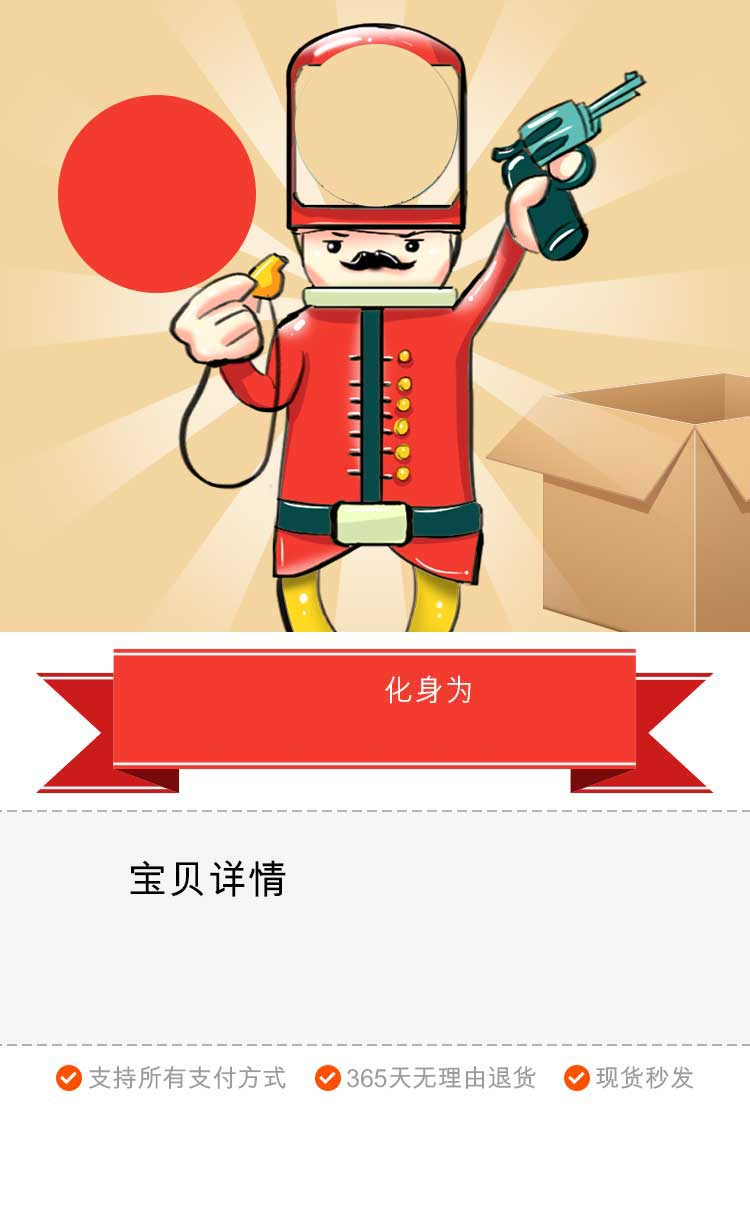
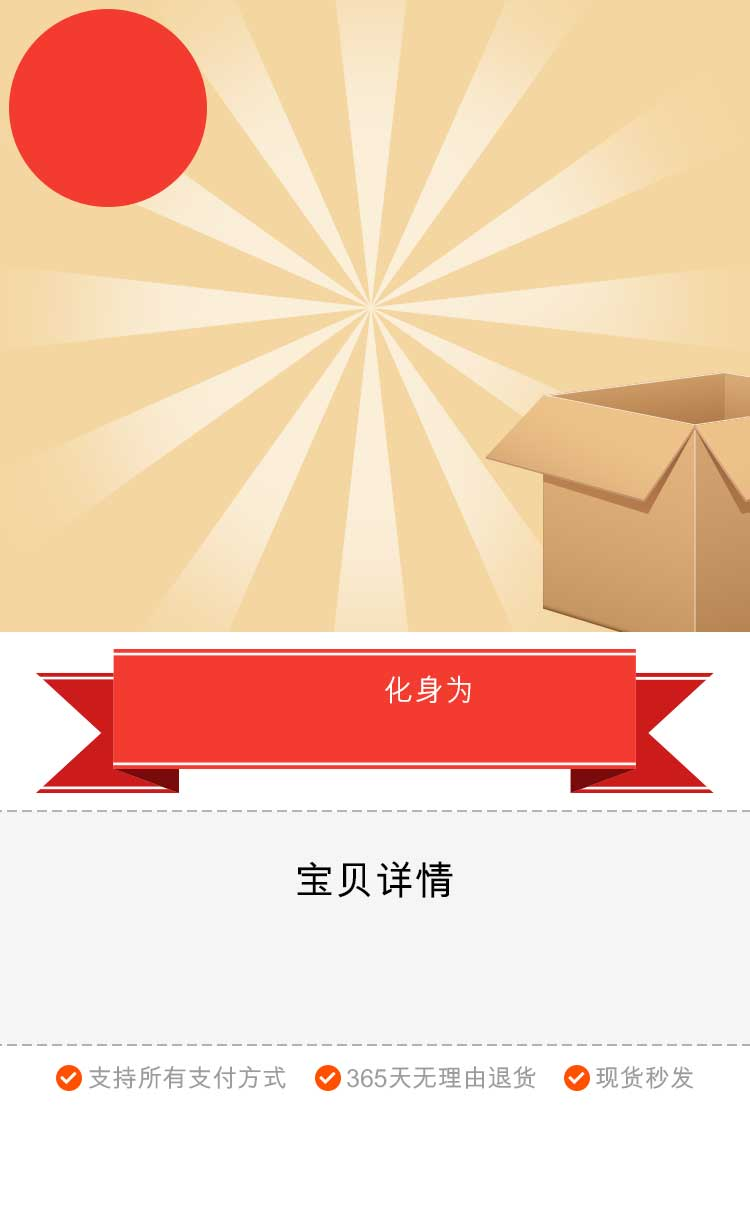
update

diff --git a/src/app/taobao-201501/script/mod/buy/goods.scss b/src/app/taobao-201501/script/mod/buy/goods.scss
@@ -76,8 +76,8 @@
 	top: 1%;
 }
 .g9 .good-price {
-	left: 10%;
-	top: 10%;
+	left: 1%;
+	top: 0.6%;
 }
 
 #good-avatar {
@@ -125,9 +125,9 @@
 	width: 18.5%;
 }
 .g9 #good-avatar {
-	left: 30.27%;
-	top: 17.7%;
-	width: 39.7%;
+	left: 16.3%;
+	top: 8%;
+	width: 66%;
 }
 
 #good-nick {
@@ -156,6 +156,7 @@
 	left: 0;
 	right: 0;
 	top: 65%;
+	text-align: center;
 }
 
 .good-actions {
